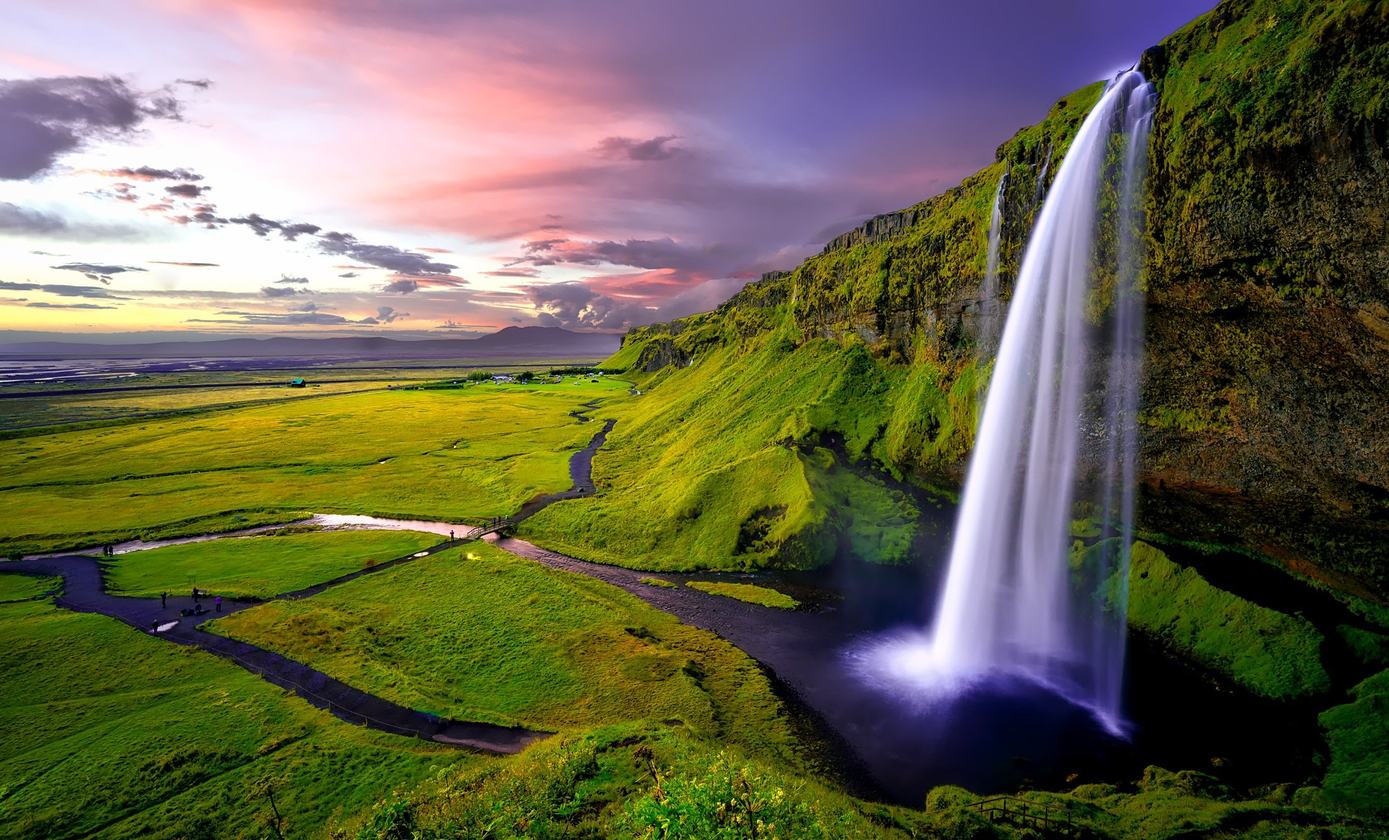
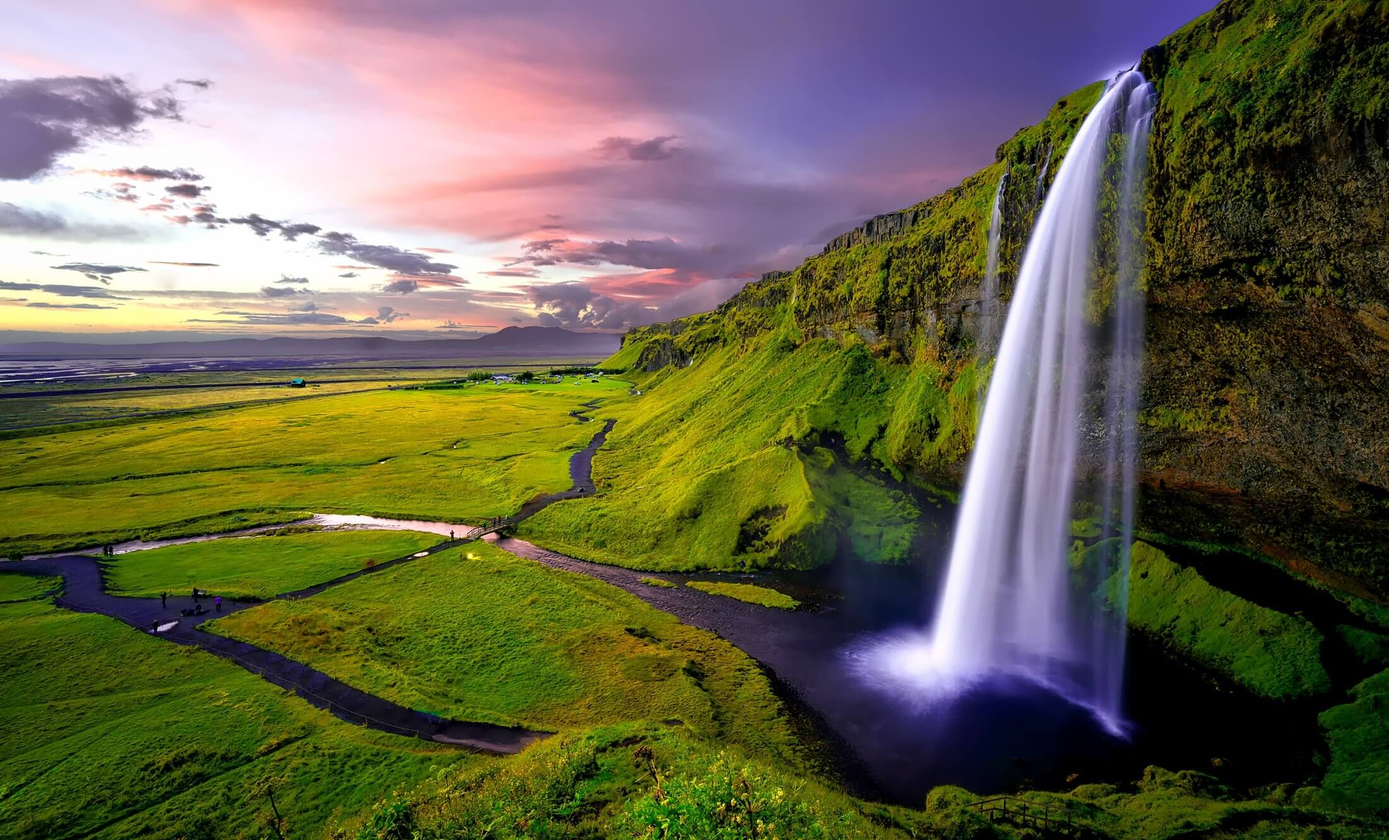
compress images

diff --git a/pages/user/newpost.js b/pages/user/newpost.js
@@ -7,7 +7,7 @@ const newpost = ({userAuth}) => {
 		<div>
 			<img
 			className="newpost-img"
-			src="/assets/iceland-5104385_1920.jpg"
+			src="/assets/iceland-5104385_1920.jpeg"
 			alt="Beautiful nature"
 			layout="fill"
 			objectfit="fit"
